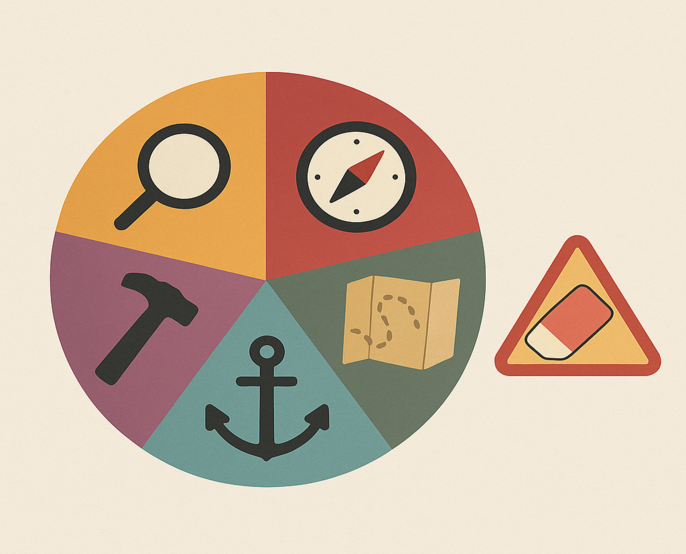
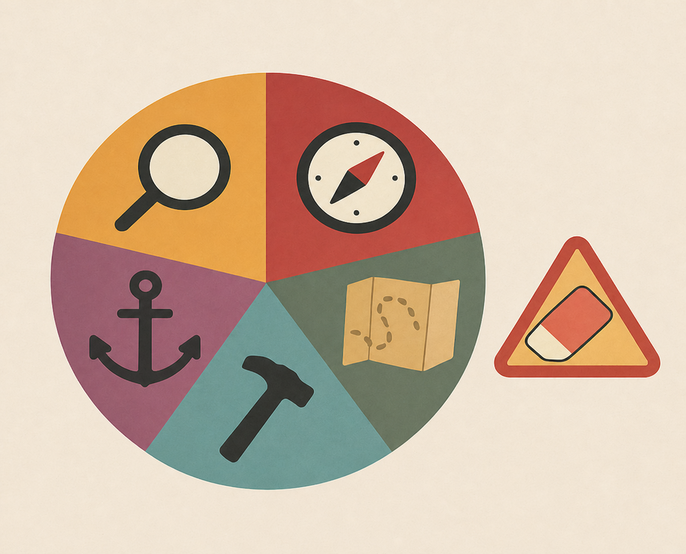
correcoes_modulo3,4,5,_paula

diff --git a/src/components/atividades/modulo3/vozes.js b/src/components/atividades/modulo3/vozes.js
@@ -126,7 +126,7 @@ const AtividadeVozCritica = () => {
             <>
               <div className="text-center">
                 <p className="lead">
-                  Quando ouvimos esta <strong>voz crítica</strong>, começamos a acreditar que as nossas <strong>falhas</strong> nos definem. O <strong>autocriticismo</strong> pode criar uma sensação constante de <strong>insuficiência</strong>, como se <strong>não fôssemos bons o suficiente</strong>. Ele pode trazer <strong>vergonha</strong>, <strong>ansiedade</strong>, <strong>tristeza</strong> e <strong>insegurança</strong>, fazendo-nos sentir <strong>distantes dos outros</strong>, como se mais ninguém passasse pelas mesmas situações ou tivesse as mesmas emoções. Esses <strong>pensamentos</strong> podem fazer-nos <strong>duvidar de nós mesmos</strong>, criando uma <strong>barreira</strong> entre o que sentimos e o que realmente somos.
+                  Quando ouvimos esta <strong>voz crítica</strong>, começamos a acreditar que as nossas <strong>falhas</strong> nos definem. O <strong>autocriticismo</strong> pode criar uma sensação constante de <strong>insuficiência</strong>, como se <strong>não fôssemos bons o suficiente</strong>. Ele pode trazer <strong>vergonha</strong>, <strong>ansiedade</strong>, <strong>tristeza</strong> e <strong>insegurança</strong>, fazendo-nos sentir <strong>distantes dos outros</strong>, como se mais ninguém passasse pelas mesmas situações ou tivesse as mesmas emoções. Esses <strong>pensamentos</strong> podem fazer-nos <strong>duvidar de nós próprios</strong>, criando uma <strong>barreira</strong> entre o que sentimos e o que realmente somos.
                 </p>
               </div>
             </>,
@@ -153,7 +153,7 @@ const AtividadeVozCritica = () => {
             <>
               <div className="text-center">
                 <p className="lead">
-                  Uma alternativa ao <strong>autocriticismo</strong> é a <strong>autocompaixão</strong>. A autocompaixão é a capacidade de sermos <strong>gentis</strong> e <strong>compreensivos connosco mesmos</strong> nos <strong>momentos difíceis</strong>. Em vez de <strong>nos criticarmos</strong>, é sermos capazes de <strong>reconhecer o nosso sofrimento</strong> e, perante ele, adotarmos uma atitude de <strong>cuidado</strong> e <strong>bondade</strong>, reconhecendo que <strong>todos temos falhas</strong> e que isso <strong>não nos torna menos merecedores de compreensão e apoio</strong>.
+                  Uma alternativa ao <strong>autocriticismo</strong> é a <strong>autocompaixão</strong>. A autocompaixão é a capacidade de sermos <strong>gentis</strong> e <strong>compreensivos connosco próprios,</strong> mesmo <strong>momentos difíceis</strong>. Em vez de <strong>nos criticarmos</strong>, é sermos capazes de <strong>reconhecer o nosso sofrimento</strong> e, perante ele, adotarmos uma atitude de <strong>cuidado</strong> e <strong>bondade</strong>, reconhecendo que <strong>todos temos falhas</strong> e que isso <strong>não nos torna menos merecedores de compreensão e apoio</strong>.
                 </p>
               </div>
             </>,
@@ -162,7 +162,7 @@ const AtividadeVozCritica = () => {
             <>
               <div className="text-center">
                 <p className="lead">
-                  A <strong>autocompaixão</strong> não significa <strong>ignorar os nossos erros</strong>, mas sim <strong>olharmos para eles com compreensão</strong> e <strong>vontade de melhorar</strong>. Ao <strong>praticá-la</strong>, criamos um <strong>ambiente interno seguro e positivo</strong>, onde podemos <strong>aprender</strong>, em vez de nos criticarmos. Esta nova forma de <strong>nos tratarmos a nós mesmos</strong> é essencial para o nosso <strong>bem-estar</strong>. Cada vez que enfrentamos uma <strong>situação difícil</strong>, temos a <strong>oportunidade de escolher</strong> a forma como <strong>falamos connosco</strong>.
+                  A <strong>autocompaixão</strong> não significa <strong>ignorar os nossos erros</strong>, mas sim <strong>olharmos para eles com compreensão</strong> e <strong>vontade de melhorar</strong>. Ao <strong>praticá-la</strong>, criamos um <strong>ambiente interno seguro e positivo</strong>, onde podemos <strong>aprender</strong>, em vez de nos criticarmos. Esta nova forma de <strong>nos tratarmos a nós próprios</strong> é essencial para o nosso <strong>bem-estar</strong>. Cada vez que enfrentamos uma <strong>situação difícil</strong>, temos a <strong>oportunidade de escolher</strong> a forma como <strong>falamos connosco</strong>.
                 </p>
               </div>
             </>,
@@ -180,7 +180,7 @@ const AtividadeVozCritica = () => {
             <>
               <div className="text-center">
                 <p className="lead">
-                  A <strong>autocompaixão</strong> também significa saber <strong>pedir ajuda</strong> quando necessário. Quando <strong>reconhecemos o nosso sofrimento</strong> e aceitamos que <strong>precisamos de ajuda</strong>, estamos a dar o <strong>primeiro passo para o nosso bem-estar</strong>. Todos <strong>merecemos cuidar de nós mesmos</strong> e <strong>procurar ajuda</strong> quando precisamos.
+                  A <strong>autocompaixão</strong> também significa saber <strong>pedir ajuda</strong> quando necessário. Quando <strong>reconhecemos o nosso sofrimento</strong> e aceitamos que <strong>precisamos de ajuda</strong>, estamos a dar o <strong>primeiro passo para o nosso bem-estar</strong>. Todos <strong>merecemos cuidar de nós próprios</strong> e <strong>procurar ajuda</strong> quando precisamos.
                 </p>
               </div>
             </>,
@@ -274,8 +274,8 @@ const AtividadeVozCritica = () => {
     <div className="text-center"></div>
       <h4 className="text-center fw-bold"  style={{ color: "#234970" }}>Conclusão da Atividade</h4>
       <p className="mb-3 lead">Ao longo desta atividade, tiveste a oportunidade de <strong>refletir</strong> sobre como as nossas <strong>vozes internas</strong> podem impactar o nosso <strong>bem-estar</strong>, as nossas <strong>relações com os outros</strong> e a nossa <strong>capacidade de pedir ajuda</strong>.</p>
-      <p className="mb-3 lead">A <strong>voz crítica</strong>, muitas vezes, pode ser muito <strong>severa</strong>, levando-nos a <strong>duvidar de nós mesmos</strong> e a sentir que <strong>não somos bons o suficiente</strong>.</p>
-      <p className="mb-3 lead">Mas, como vimos, a <strong>voz compassiva</strong> nos oferece uma maneira diferente de lidar com os <strong>desafios da vida</strong> — com <strong>gentileza</strong>, <strong>compreensão</strong> e <strong>aceitação</strong>.</p>
+      <p className="mb-3 lead">A <strong>voz crítica</strong>, muitas vezes, pode ser muito <strong>severa</strong>, levando-nos a <strong>duvidar de nós próprios</strong> e a sentir que <strong>não somos bons o suficiente</strong>.</p>
+      <p className="mb-3 lead">Mas, como vimos, a <strong>voz compassiva</strong> oferece-nos uma maneira diferente de lidar com os <strong>desafios da vida</strong> — com <strong>gentileza</strong>, <strong>compreensão</strong> e <strong>aceitação</strong>.</p>
       <p className="mb-3 lead">Ao praticarmos a <strong>autocompaixão</strong>, começamos a <strong>cultivar um espaço interno mais saudável</strong>, onde podemos <strong>aprender com os nossos erros</strong> e sermos mais <strong>genuínos</strong> e <strong>felizes</strong> nas nossas relações.</p>
       <p className="mb-3 lead">Agora que <strong>refletiste</strong> sobre a tua própria <strong>voz crítica</strong> e <strong>voz compassiva</strong>, lembra-te: todas as <strong>vozes fazem parte de ti</strong>, mas a forma como <strong>escolhes ouvi-las e responder-lhes</strong> pode mudar a forma como <strong>te sentes</strong> e <strong>te relacionas com o mundo à tua volta</strong>.</p>
       <p className="mb-3 lead"><strong>Escolher ser mais compassivo contigo mesmo/a</strong> é um passo importante para o teu <strong>bem-estar</strong>.</p>

diff --git a/src/components/atividades/modulo4/atividadeResumo.js b/src/components/atividades/modulo4/atividadeResumo.js
@@ -300,13 +300,29 @@ const imagemFase = {
                     
                     {/* Modified invisible clickable buttons - now open modals */}
                     <button
-                      onClick={() => handlePhaseInfoClick('calmaria')}
+                      onClick={() => handlePhaseInfoClick('desafios')}
                       style={{
                         position: 'absolute',
                         top: '27%',
                         left: '4%',
                         width: '28%',
                         height: '33%',
+                        background: 'transparent',
+                        border: 'none',
+                        cursor: 'pointer',
+                        zIndex: 10
+                      }}
+                      aria-label="Ver informações sobre Desafios no Surf"
+                    />
+                    
+                    <button
+                      onClick={() => handlePhaseInfoClick('calmaria')}
+                      style={{
+                        position: 'absolute',
+                        top: '4%',
+                        left: '35%',
+                        width: '30%',
+                        height: '34%',
                         background: 'transparent',
                         border: 'none',
                         cursor: 'pointer',
@@ -319,10 +335,10 @@ const imagemFase = {
                       onClick={() => handlePhaseInfoClick('preparacao')}
                       style={{
                         position: 'absolute',
-                        top: '4%',
-                        left: '35%',
-                        width: '30%',
-                        height: '34%',
+                        top: '25%',
+                        left: '66%',
+                        width: '32%',
+                        height: '35%',
                         background: 'transparent',
                         border: 'none',
                         cursor: 'pointer',
@@ -335,22 +351,6 @@ const imagemFase = {
                       onClick={() => handlePhaseInfoClick('remada')}
                       style={{
                         position: 'absolute',
-                        top: '25%',
-                        left: '66%',
-                        width: '32%',
-                        height: '35%',
-                        background: 'transparent',
-                        border: 'none',
-                        cursor: 'pointer',
-                        zIndex: 10
-                      }}
-                      aria-label="Ver informações sobre Remada"
-                    />
-                    
-                    <button
-                      onClick={() => handlePhaseInfoClick('surfar')}
-                      style={{
-                        position: 'absolute',
                         top: '61%',
                         left: '55%',
                         width: '33%',
@@ -360,11 +360,11 @@ const imagemFase = {
                         cursor: 'pointer',
                         zIndex: 10
                       }}
-                      aria-label="Ver informações sobre Surfar a Onda"
+                      aria-label="Ver informações sobre Remanda"
                     />
                     
                     <button
-                      onClick={() => handlePhaseInfoClick('desafios')}
+                      onClick={() => handlePhaseInfoClick('surfar')}
                       style={{
                         position: 'absolute',
                         top: '62%',
@@ -376,7 +376,7 @@ const imagemFase = {
                         cursor: 'pointer',
                         zIndex: 10
                       }}
-                      aria-label="Ver informações sobre Desafios no Surf"
+                      aria-label="Ver informações sobre Surfar a Onda"
                     />
                   </div>
                 </div>
@@ -594,7 +594,7 @@ const imagemFase = {
               <>
                 <h4 className="text-center fw-bold mb-4" style={{ color: "#234970" }}>Conclusão da Atividade</h4>
                 <p className="mb-3 lead">
-                  <strong>Refletir sobre o teu percurso de mudança</strong> mudança é como parar por um instante em cima da prancha e observar o mar à tua volta. 
+                  <strong>Refletir sobre o teu percurso de mudança</strong> é como parar por um instante em cima da prancha e observar o mar à tua volta. 
                 </p>
                 <p className="mb-3 lead">
                   Tal como no surf, a mudança pede <strong> prática, paciência, coragem e determinação </strong>. 

diff --git a/src/components/atividades/modulo4/ferramentaMudanca.js b/src/components/atividades/modulo4/ferramentaMudanca.js
@@ -200,22 +200,6 @@ const handleAttemptClose = () => {
                   />
                   
                   <button
-                    onClick={() => handleAreaClick('ancora')}
-                    style={{
-                      position: 'absolute',
-                      top: '59%',
-                      right: '50%',
-                      width: '23%',
-                      height: '25%',
-                      background: 'transparent',
-                      border: 'none',
-                      cursor: 'pointer',
-                      zIndex: 10
-                    }}
-                    aria-label="Âncora"
-                  />
-                  
-                  <button
                     onClick={() => handleAreaClick('martelo')}
                     style={{
                       position: 'absolute',
@@ -230,7 +214,23 @@ const handleAttemptClose = () => {
                     }}
                     aria-label="Martelo"
                   />
-                  
+
+                  <button
+                    onClick={() => handleAreaClick('ancora')}
+                    style={{
+                      position: 'absolute',
+                      top: '59%',
+                      right: '50%',
+                      width: '23%',
+                      height: '25%',
+                      background: 'transparent',
+                      border: 'none',
+                      cursor: 'pointer',
+                      zIndex: 10
+                    }}
+                    aria-label="Âncora"
+                  /> 
+
                   <button
                     onClick={() => handleAreaClick('perigo')}
                     style={{
@@ -293,7 +293,10 @@ const handleAttemptClose = () => {
                   Cada fase do ciclo tem o seu <strong>valor</strong>, e <strong>não há uma forma "certa"</strong> de passar por elas. O mais importante é ires <strong>prestando atenção ao que sentes</strong>, ao que <strong>precisas</strong> e ao que <strong>te faz bem</strong>.
                 </p>
                 <p className="mb-3 lead">
-                  Tal como usaste a <strong>lupa</strong> para observar mais de perto, a <strong>bússola</strong> para refletir sobre o caminho, o <strong>mapa</strong> para planear, o <strong>martelo</strong> para agir, a <strong>âncora</strong> para manter, e caso precises podes recorrer à <strong>borracha</strong> para reajustar; lembra-te: <strong>todas estas ferramentas estão sempre contigo</strong>.
+                  Podes usar a <strong>lupa</strong> para observar mais de perto, a <strong>bússola</strong> para refletir sobre o caminho, o <strong>mapa</strong> para planear, o <strong>martelo</strong> para agir, a <strong>âncora</strong> para manter. Caso precises podes recorrer à <strong>borracha</strong> para reajustar.
+                 </p> 
+                 <p className="mb-3 lead">
+                  Lembra-te: <strong>todas estas ferramentas estão sempre contigo</strong>. Podes usá-las quando quiseres.
                 </p>
                 <p className="mb-3 lead"><strong>Podes usá-las quando precisares.</strong></p>
                 <div className="d-flex justify-content-between mt-4">

diff --git a/src/components/atividades/modulo4/balancaVirtual.js b/src/components/atividades/modulo4/balancaVirtual.js
@@ -289,7 +289,7 @@ const BalancaVirtual = () => {
               <>
                 <h2 className="text-center fw-bold mb-4" style={{ color: "#234970" }}>Balança Virtual</h2>
                 <p className="mb-3 lead"><strong>Sê muito bem-vindo/a à atividade da Balança Virtual!</strong></p>
-                <p className="mb-3 lead">Esta atividade vai ajudar-te a <strong>refletir</strong> de forma interativasobre os <strong>prós e contras de mudar comportamentos</strong>.</p>
+                <p className="mb-3 lead">Esta atividade vai ajudar-te a <strong>refletir</strong> de forma interativa sobre os <strong>prós e contras de mudar comportamentos</strong>.</p>
                 <p className="mb-3 lead">Seleciona um <strong>comportamento </strong> dos exemplos a seguir, aquele que mais se <strong> aproxima da tua experiência </strong> e que faz mais sentido para ti neste <strong> momento da tua vida</strong> , e que <strong> gostarias de mudar</strong>. </p>
                 <p className="mb-3 lead">Lembra-te de que a <strong>escolha é tua</strong>, e o objetivo é entender melhor as implicações de <strong>mudar ou de não mudar </strong>esse comportamento. </p>
                 <div className="text-center">

diff --git a/src/components/atividades/modulo4/jaFosteCapaz.js b/src/components/atividades/modulo4/jaFosteCapaz.js
@@ -526,13 +526,13 @@ triedNext && pagina >= 1 && pagina <= 4 && audioEnded[idxAtual] && !choice[idxAt
                  </p>
                  <p className="lead">
                   Além disso,  <strong> ver outras pessoas a conseguirem o que parecia impossível </strong> pode nos fazer acreditar que também somos capazes. 
+                  </p>
                   <p className="lead">
                     <strong> O apoio de quem acredita em nós, como amigos </strong> , professores ou familiares, aumenta essa confiança. 
                   </p>
                   <p className="lead">
                     Quando estamos <strong> bem-dispostos e com energia </strong>, isso nota-se também no nosso corpo e ajuda a sentirmo-nos mais confiantes para enfrentar os desafios.
                   </p>
-                 </p>
                 <div className="d-flex justify-content-between mt-4">
                   <button className="custom-btn-pink" onClick={retrocederPagina}>
                     <i className="bi bi-arrow-left me-2"></i>Anterior

diff --git a/src/components/atividades/modulo2/podcast.js b/src/components/atividades/modulo2/podcast.js
@@ -136,7 +136,7 @@ const PodcastTouchminds = () => {
                     Mas a verdade é que, quando <strong>não se fala</strong> sobre o que se sente, o <strong>sofrimento</strong> só tende a crescer.
                   </p>
                   <p className="lead mb-3">
-                    A <strong>ansiedade</strong> não é um sinal de <strong>fraqueza</strong>; é uma <strong>resposta</strong> natural do corpo, e todos passam por momentos em que ela se torna mais intensa.
+                    A <strong>ansiedade</strong> não é um sinal de fraqueza; é uma <strong>resposta natural</strong> do corpo, e todos passam por momentos em que ela se torna mais intensa.
                   </p>
                   <p className="lead mb-4">
                     Ao <strong>falar</strong> abertamente sobre a ansiedade, <strong>desmistifica-se</strong> o tema e cria-se um ambiente onde as pessoas se sentem mais à vontade para <strong>partilhar</strong> as suas

diff --git a/src/components/atividades/modulo3/atividadeResumo.js b/src/components/atividades/modulo3/atividadeResumo.js
@@ -227,17 +227,6 @@ const baseInputStyle = {
                     </div>
 
                     <div className="mb-3">
-                      Mesmo que estejas a sentir{" "}
-                      <input
-                        type="text"
-                        value={carta.parte3}
-                        onChange={(e) => handleChange('parte3', e.target.value)}
-                        placeholder="continua aqui..."
-                        style={baseInputStyle}
-                      />
-                    </div>
-
-                    <div className="mb-3">
                       Quando cometes erros, é importante lembrares-te que{" "}
                       <input
                         type="text"
